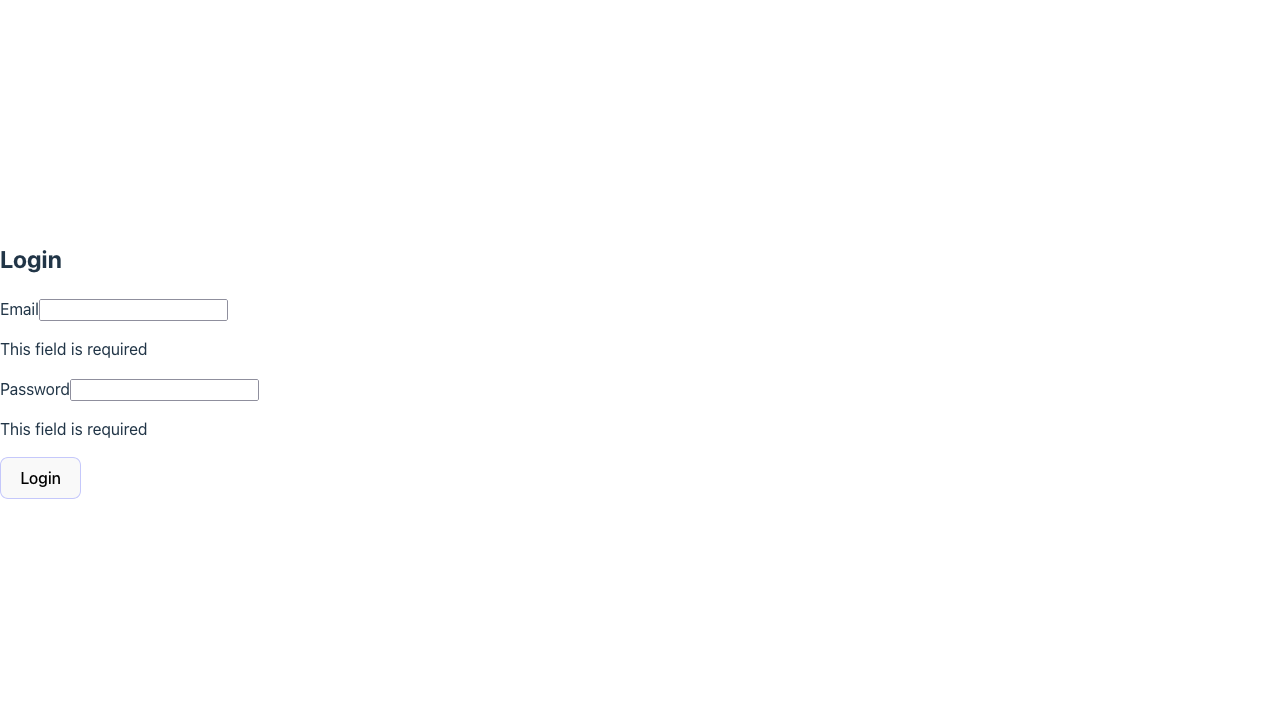
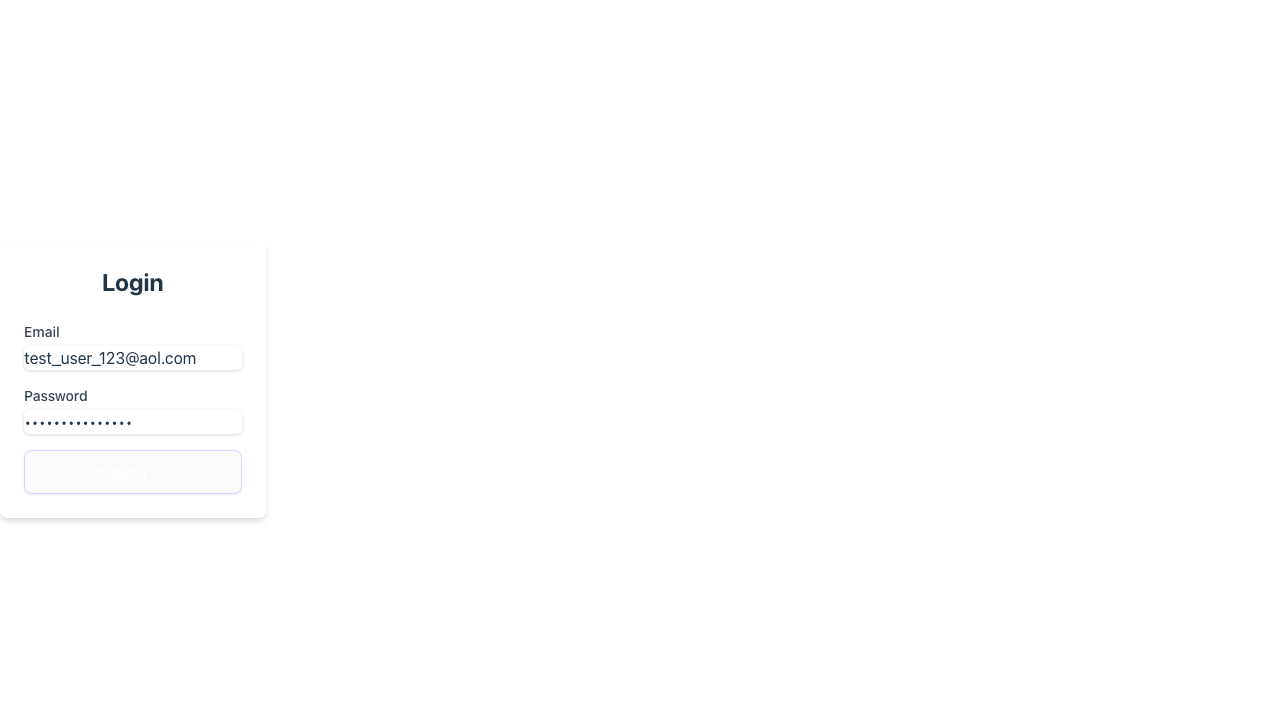
reconfigured successful login test using Page Object Model design

diff --git a/frontend/playwright-report/index.html b/frontend/playwright-report/index.html
@@ -82,4 +82,4 @@ Error generating stack: `+n.message+`
     <div id='root'></div>
   </body>
 </html>
[2 lines of base64/hex data omitted]

diff --git a/frontend/tests/login/loginInputValidation.spec.ts b/frontend/tests/login/loginInputValidation.spec.ts
@@ -1,5 +1,6 @@
 import { test, expect } from '@playwright/test';
 import { beforeEach } from '../constants';
+import { LoginPage } from '../pages/auth/login.page';
 
 // Constants
 const NAV_LINK = 'http://localhost:5173/login'; // default login component
@@ -23,17 +24,6 @@ test.describe('LoginForm component', () => {
    * Act: none
    * Assert: verify locators are visible
    */
-  test('Should render email and password input fields and login button', async ({
-    page,
-  }) => {
-    const emailInputField = page.getByTestId('email-input')
-    const passwordInputField = page.getByTestId('password-input')
-    const loginButton = page.getByTestId('login-button')
-
-    await expect(emailInputField).toBeVisible()
-    await expect(passwordInputField).toBeVisible()
-    await expect(loginButton).toBeVisible()
-  });
 
   /**
    * Scenario: Verify successful login and navigation to NAV_LINK
@@ -42,19 +32,15 @@ test.describe('LoginForm component', () => {
    * Assert: verify successful login and navigation to NAV_LINK
    */
 
-  test('Should allow user login based on valid credentials', async ({
+  test.only('Should allow user login based on valid credentials', async ({
     page,
-  }) =>{
-    const emailInputField = page.getByTestId('email-input')
-    const passwordInputField = page.getByTestId('password-input')
-    const loginButton = page.getByTestId('login-button')
+  }) => {
+    const loginPage = new LoginPage(page);
+    await loginPage.handleLogin(LOGIN_EMAIL, LOGIN_PASSWORD);
+    await page.screenshot({ path: 'debug.png' });
 
-    await emailInputField.fill(LOGIN_EMAIL) // fill email field
-    await passwordInputField.fill(LOGIN_PASSWORD) // fill password field
-    await loginButton.click() // click login button
-    
-    await expect(page).toHaveURL(NAV_LINK) // verify successful login
-  })
+    await expect(page).toHaveURL(NAV_LINK); // verify successful login
+  });
 
   /**
    * Scenario: Verify realtime validation for email field
@@ -63,18 +49,18 @@ test.describe('LoginForm component', () => {
    * Assert: verify realtime validation error message
    */
 
-  test(
-    'Should display error message when email is invalid',
-    async ({ page}) => {
-      const emailInputField = page.getByTestId('email-input') // render locator
+  test('Should display error message when email is invalid', async ({
+    page,
+  }) => {
+    const emailInputField = page.getByTestId('email-input'); // render locator
 
-      await emailInputField.fill('invalidemail') // fill email input with invalid email
-      await expect(emailInputField).toHaveValue('invalidemail') // verify email input is invalidemail
+    await emailInputField.fill('invalidemail'); // fill email input with invalid email
+    await expect(emailInputField).toHaveValue('invalidemail'); // verify email input is invalidemail
 
-      await expect(page.getByText('Please enter a valid email address')).toBeVisible() // verify error message is visible
-
-    }
-  )
+    await expect(
+      page.getByText('Please enter a valid email address')
+    ).toBeVisible(); // verify error message is visible
+  });
 
   /**
    * Scenario: Verify realtime validation for password field
@@ -83,18 +69,16 @@ test.describe('LoginForm component', () => {
    * Assert: verify realtime validation error message
    */
 
-  test.only(
-    'Should display error message when password is invalid',
-    async ({ page}) => {
-      const passwordInputField = page.getByTestId('password-input') // render locator
+  test('Should display error message when password is invalid', async ({
+    page,
+  }) => {
+    const passwordInputField = page.getByTestId('password-input'); // render locator
 
-      await passwordInputField.fill('inv') // fill password input with invalid password
-      await expect(passwordInputField).toHaveValue('inv') // verify password input is invalidpassword
+    await passwordInputField.fill('inv'); // fill password input with invalid password
+    await expect(passwordInputField).toHaveValue('inv'); // verify password input is invalidpassword
 
-      await expect(page.getByText('Must be at least 6 characters')).toBeVisible() // verify error message is visible
-
-    }
-  )
+    await expect(page.getByText('Must be at least 6 characters')).toBeVisible(); // verify error message is visible
+  });
 
   /**
    * Scenario: Disabled login button
@@ -102,49 +86,47 @@ test.describe('LoginForm component', () => {
    * Assert: verify login button is disabled when text is empty
    */
 
-  test.only('Button default disabled',
-    async ({page}) =>{
-      const loginButton = page.getByTestId('login-button')
+  test('Button default disabled', async ({ page }) => {
+    const loginButton = page.getByTestId('login-button');
 
-      await expect(loginButton).toBeDisabled() // verify login button is disabled
-    }
-  )
+    await expect(loginButton).toBeDisabled(); // verify login button is disabled
+  });
 
   /**
    * Scenario: Verify disabled login button
    * Arrange: declare locators
    * Act: fill in empty email and password
    * Assert: verify login button is disabled
-   */ 
-  test.only('Button should be disabled while email and password are empty',
-    async ({page}) =>{
-      const loginButton = page.getByTestId('login-button')
-      const emailInputField = page.getByTestId('email-input')
-      const passwordInputField = page.getByTestId('password-input')
+   */
+  test('Button should be disabled while email and password are empty', async ({
+    page,
+  }) => {
+    const loginButton = page.getByTestId('login-button');
+    const emailInputField = page.getByTestId('email-input');
+    const passwordInputField = page.getByTestId('password-input');
 
-      await emailInputField.fill(EMPTY_EMAIL) // fill email input with empty email
-      await passwordInputField.fill(EMPTY_PASSWORD) // fill password input with empty password
+    await emailInputField.fill(EMPTY_EMAIL); // fill email input with empty email
+    await passwordInputField.fill(EMPTY_PASSWORD); // fill password input with empty password
 
-      await expect(loginButton).toBeDisabled() // verify login button is disabled
-    }
-  )
-  
+    await expect(loginButton).toBeDisabled(); // verify login button is disabled
+  });
+
   /**
    * Scenario: Verify disabled login button
    * Arrange: declare locators
    * Act: fill in empty email and password
    * Assert: verify login button is disabled
-   */ 
-  test.only('Button should be disabled while email and password are invalid',
-    async ({page}) =>{
-      const loginButton = page.getByTestId('login-button')
-      const emailInputField = page.getByTestId('email-input')
-      const passwordInputField = page.getByTestId('password-input')
+   */
+  test('Button should be disabled while email and password are invalid', async ({
+    page,
+  }) => {
+    const loginButton = page.getByTestId('login-button');
+    const emailInputField = page.getByTestId('email-input');
+    const passwordInputField = page.getByTestId('password-input');
 
-      await emailInputField.fill(INVALID_EMAIL) // fill email input with empty email
-      await passwordInputField.fill(INVALID_PASSWORD) // fill password input with empty password
+    await emailInputField.fill(INVALID_EMAIL); // fill email input with empty email
+    await passwordInputField.fill(INVALID_PASSWORD); // fill password input with empty password
 
-      await expect(loginButton).toBeDisabled() // verify login button is disabled
-    }
-  )
+    await expect(loginButton).toBeDisabled(); // verify login button is disabled
+  });
 });

diff --git a/frontend/tests/pages/auth/login.page.ts b/frontend/tests/pages/auth/login.page.ts
@@ -1,0 +1,33 @@
+import { test, expect } from '@playwright/test';
+import type { Page, Locator } from '@playwright/test';
+
+export class LoginPage {
+  readonly emailInputField: Locator;
+  readonly passwordInputField: Locator;
+  readonly loginButton: Locator;
+
+  constructor(readonly page: Page) {
+    this.page = page;
+    this.emailInputField = page.getByTestId('email-input');
+    this.passwordInputField = page.getByTestId('password-input');
+    this.loginButton = page.getByTestId('login-button');
+  }
+
+  async fillEmailInput(emailInput: string) {
+    await this.emailInputField.fill(emailInput);
+  }
+
+  async fillPasswordInput(passwordInput: string) {
+    await this.passwordInputField.fill(passwordInput);
+  }
+
+  async clickLogin() {
+    await this.loginButton.click();
+  }
+
+  async handleLogin(email: string, password: string) {
+    await this.fillEmailInput(email);
+    await this.fillPasswordInput(password);
+    await this.clickLogin();
+  }
+}

diff --git a/plan.md b/plan.md
@@ -31,10 +31,10 @@
   - [x] Initialize new project
   - [x] Run sample test
   - [x] Configure basic test scripts
-- [ ] Write and run 3 basic tests:
-  - [x] Page title verification
-  - [x] Element visibility check
-  - [x] Basic form interaction
+- [x] Write and run 3 basic tests:
+  - [x] Page title verification (`pageTitle.spec.ts`)
+  - [x] Element visibility check (`loginInputValidation.spec.ts`)
+  - [x] Basic form interaction (`addNote.spec.ts`)
 
 **Deliverable:** Screenshot of 3 passing tests
 
@@ -83,10 +83,10 @@
   - [ ] Use proper bug report template
   - [ ] Include screenshots
   - [ ] Set appropriate priority/severity
-- [ ] Write 10 test cases for a login form:
-  - [ ] 3 positive scenarios
-  - [ ] 4 negative scenarios
-  - [ ] 3 edge cases
+- [x] Write 10 test cases for a login form:
+  - [x] 3 positive scenarios (Valid login)
+  - [x] 4 negative scenarios (Invalid email, invalid password)
+  - [x] 3 edge cases (Empty fields, disabled buttons)
 
 **Deliverable:** Jira bug report PDF + test case spreadsheet
 
@@ -105,10 +105,11 @@
   - [ ] Browser contexts
   - [ ] Auto-waiting mechanisms
   - [ ] Network handling
-- [ ] Practice different selector strategies:
+- [x] Practice different selector strategies:
   - [ ] CSS selectors
   - [ ] XPath expressions
-  - [ ] Text-based selectors
+  - [x] Text-based selectors
+  - [x] **Best Practice:** `data-testid` usage (Implemented)
 - [ ] Research selector stability:
   - [ ] Document pros/cons of different selector types
   - [ ] Create a selector strategy guide
@@ -117,14 +118,16 @@
 
 ##### Introduction to Page Object Model (POM)
 
+> [!IMPORTANT]
+> **CRITICAL STEP:** Your current tests (`loginInputValidation.spec.ts`, `addNote.spec.ts`) are growing. It is time to refactor them using POM to avoid code duplication.
+
 - [ ] Study POM principles:
   - [ ] Single Responsibility Principle
   - [ ] DRY (Don't Repeat Yourself)
   - [ ] Separation of concerns
 - [ ] Design component-level POMs:
-  - [ ] Button component
-  - [ ] Modal component
-  - [ ] Dropdown component
+  - [ ] `LoginPage` (Encapsulate login actions)
+  - [ ] `NotePage` (Encapsulate add/delete/view note actions)
 - [ ] Practice identifying patterns:
   - [ ] List common UI patterns in your tests
   - [ ] Mark candidates for extraction
@@ -132,30 +135,25 @@
 
 **Wednesday–Friday: Hands-On**
 
-- [ ] Set up test project for TodoMVC:
-  - [ ] Initialize test directory
-  - [ ] Configure base URL
-  - [ ] Set up test hooks
-- [ ] Implement 15 Playwright tests:
-  - [ ] Todo Management (5 tests):
-    - [ ] Add new todo
-    - [ ] Delete todo
-    - [ ] Edit existing todo
-    - [ ] Mark todo as complete
-    - [ ] Clear completed todos
-  - [ ] Filtering (3 tests):
-    - [ ] Filter active todos
-    - [ ] Filter completed todos
-    - [ ] Show all todos
-  - [ ] Counter (3 tests):
-    - [ ] Initial counter (0)
-    - [ ] Counter after adding todos
-    - [ ] Counter after completing todos
-  - [ ] Persistence (4 tests):
+- [x] Set up test project for **Note App** (Replaced TodoMVC):
+  - [x] Initialize test directory
+  - [x] Configure base URL
+  - [x] Set up test hooks
+- [ ] Implement 15 Playwright tests (In Progress):
+  - [x] Note Management:
+    - [x] Add new note (`addNote.spec.ts`)
+    - [x] Delete note (`deleteNote.spec.ts`)
+    - [ ] Edit existing note
+    - [x] View all notes (`viewAllNotes.spec.ts`)
+  - [ ] Filtering/Search (If applicable to Note App):
+    - [ ] Search for notes
+    - [ ] Filter by category
+  - [ ] Advanced Assertions:
+    - [x] Custom Matchers (Implemented `toHaveAccessibleErrorMessage`)
+    - [ ] Soft assertions
+  - [ ] Persistence:
     - [ ] Persist after refresh
     - [ ] Persist after browser close
-    - [ ] Maintain filter state
-    - [ ] Maintain todo status
 
 **Deliverable:** GitHub repo with test suite + README
 
@@ -290,7 +288,7 @@
 
 **December 29, 2025 – March 8, 2026**
 
-### Week 7: Dec 29–Jan 4 | Project Kickoff – Pet Adoption Dashboard
+### Week 7: Dec 29–Jan 4 | Project Kickoff – Note App (Continued)
 
 **Focus:** Understanding requirements
 
